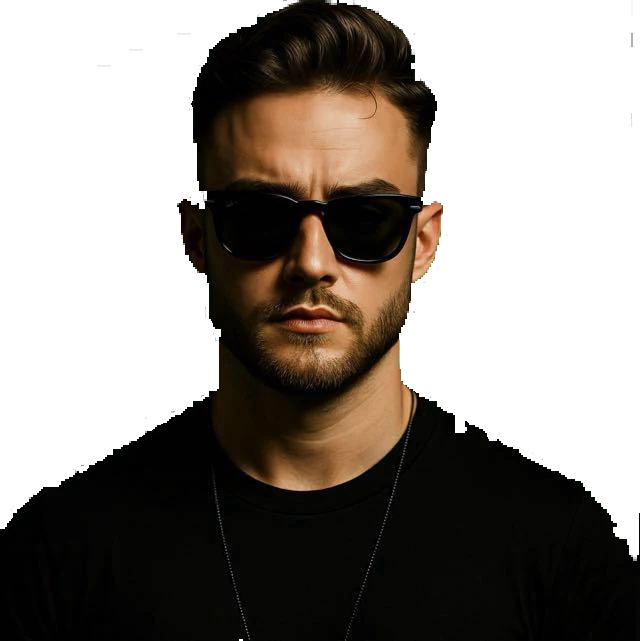
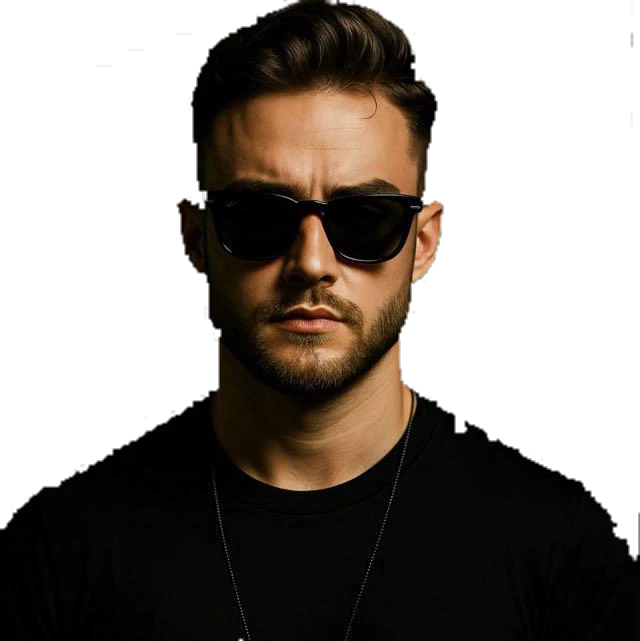
feat: finalize LR identity and refresh portfolio

diff --git a/index.html b/index.html
@@ -21,10 +21,10 @@
     >
     <meta
       property="og:image"
-      content="https://lucas-rickson-neural-violet.growthengineer.chatgpt.site/og.png"
+      content="https://lucas-rickson-neural-violet.growthengineer.chatgpt.site/og.jpg"
     >
-    <meta property="og:image:width" content="1729">
-    <meta property="og:image:height" content="910">
+    <meta property="og:image:width" content="1200">
+    <meta property="og:image:height" content="632">
     <meta
       property="og:image:alt"
       content="Lucas Rickson — O impossível ganha forma."
@@ -37,39 +37,18 @@
     >
     <meta
       name="twitter:image"
-      content="https://lucas-rickson-neural-violet.growthengineer.chatgpt.site/og.png"
+      content="https://lucas-rickson-neural-violet.growthengineer.chatgpt.site/og.jpg"
     >
     <title>Lucas Rickson — Experiências digitais em 3D</title>
     <link
       rel="canonical"
       href="https://lucas-rickson-neural-violet.growthengineer.chatgpt.site/"
     >
-    <script type="application/ld+json">
-      {
-        "@context": "https://schema.org",
-        "@type": "Person",
-        "name": "Lucas Rickson",
-        "url": "https://lucas-rickson-neural-violet.growthengineer.chatgpt.site/",
-        "sameAs": ["https://instagram.com/olucasrickson"],
-        "jobTitle": "Designer de experiências digitais",
-        "knowsAbout": [
-          "Web design",
-          "Produção de podcasts",
-          "Edição de vídeo",
-          "Motion e VFX",
-          "Tráfego pago",
-          "Inteligência artificial"
-        ],
-        "homeLocation": {
-          "@type": "Place",
-          "name": "Goiás, Brasil"
-        }
-      }
-    </script>
     <link rel="icon" href="/favicon.png" type="image/png">
 
-    <!-- Structured data: lets Google show Lucas as a person with a defined
-         set of services, and surfaces the Computer Science background.
+    <!-- Structured data — SINGLE Person entity for the whole site.
+         Two competing Person blocks would split the entity for Google, so
+         keep this as the only application/ld+json on the page.
          Update `url`/`image` together with the canonical tag above. -->
     <script type="application/ld+json">
       {
@@ -78,19 +57,22 @@
         "name": "Lucas Rickson",
         "url": "https://lucas-rickson-neural-violet.growthengineer.chatgpt.site/",
         "image": "https://lucas-rickson-neural-violet.growthengineer.chatgpt.site/assets/lucas-rickson.webp",
-        "jobTitle": "Web Designer, Produtor de Podcasts e Artista Visual",
+        "jobTitle": "Designer de experiências digitais e produtor de podcasts",
         "description": "Acadêmico de Ciência da Computação que cria sites, podcasts, vídeo, motion, VFX e campanhas de tráfego pago com apoio de inteligência artificial.",
         "knowsAbout": [
           "Ciência da Computação",
-          "Web Design",
-          "Produção de Podcast",
-          "Edição de Vídeo",
-          "Motion Design",
-          "VFX",
-          "Tráfego Pago",
+          "Web design",
+          "Produção de podcasts",
+          "Edição de vídeo",
+          "Motion e VFX",
+          "Tráfego pago",
           "Meta Ads",
-          "Inteligência Artificial Generativa"
+          "Inteligência artificial generativa"
         ],
+        "homeLocation": {
+          "@type": "Place",
+          "name": "Goiás, Brasil"
+        },
         "address": {
           "@type": "PostalAddress",
           "addressRegion": "GO",
@@ -134,7 +116,14 @@
 
     <header class="site-header" id="site-header">
       <a class="brand" href="#inicio" aria-label="Lucas Rickson — início">
-        <span class="brand__signal" aria-hidden="true"></span>
+        <img
+          class="brand__mark"
+          src="/logo-mark.png"
+          alt=""
+          width="32"
+          height="32"
+          aria-hidden="true"
+        >
         <span>Lucas Rickson</span>
       </a>
 
@@ -529,7 +518,14 @@
 
     <footer class="site-footer">
       <a class="brand" href="#inicio">
-        <span class="brand__signal" aria-hidden="true"></span>
+        <img
+          class="brand__mark"
+          src="/logo-mark.png"
+          alt=""
+          width="32"
+          height="32"
+          aria-hidden="true"
+        >
         <span>Lucas Rickson</span>
       </a>
       <p>Sites · Podcasts · Vídeo &amp; VFX · Meta Ads</p>

diff --git a/src/styles.css b/src/styles.css
@@ -220,15 +220,13 @@ body.loaded .loader {
   text-transform: uppercase;
 }
 
-.brand__signal {
-  width: 0.5rem;
-  height: 0.5rem;
-  border-radius: 50%;
-  background: var(--pink-glow);
-  box-shadow:
-    0 0 8px var(--pink-glow),
-    0 0 18px var(--magenta);
-  animation: signal-pulse 3.4s ease-in-out infinite;
+.brand__mark {
+  width: 1.75rem;
+  height: 1.75rem;
+  object-fit: contain;
+  filter:
+    drop-shadow(0 0 5px rgb(255 46 170 / 0.42))
+    drop-shadow(0 0 10px rgb(123 45 255 / 0.3));
 }
 
 .menu-toggle {

diff --git a/AGENTS.md b/AGENTS.md
@@ -6,6 +6,12 @@ Two AI agents work on this repo simultaneously. **Read this before editing; upda
 
 Personal landing page for Lucas Rickson — "Neural Violet" art direction (dark macro-surrealism, violet `#8b2fd6` / magenta `#e331b8`, rare cyan `#52e8e0` ≤5%, void `#060309`). Stack: Vite 7 + Three.js, deployed on Netlify (`netlify.toml`, build → `dist/`). UI copy in pt-BR; code/comments in English.
 
+## Repository
+
+Lucas's canonical repo (stated 2026-07-25) is **`origin`** → `https://github.com/ricksonlucasgomes-prog/lucas-rickson-lr.git` (public). Use it for all version control from now on.
+
+The `sites` remote (`git.chatgpt-team.site/.../appgprj_…`) is the Sites deploy target, not the source of truth — keep both, push code to `origin`.
+
 ## Ground rules
 
 1. **No wholesale rewrites.** Edit incrementally; the file you remember may have changed since you last read it. Re-read before writing.
@@ -22,7 +28,9 @@ Personal landing page for Lucas Rickson — "Neural Violet" art direction (dark 
 - **DONE (2026-07-25):** added the **Sinal** podcast card (`sinal.webp`) plus its `projectDetails` entry in `main.js`, the category-filter markup, and `src/works-filter.css`. Deleted my duplicate `works-filter.js` once Codex implemented `applyProjectFilter` in `main.js` — **filter behaviour is Codex's, filter styling is mine.**
 - **DONE (2026-07-25):** About-section portrait. `public/assets/lucas-rickson.webp` is a transparent cutout of Lucas's photo (green screen removed locally via chroma-ratio + border flood fill; source kept at `~/Downloads/WhatsApp Image 2026-07-25 at 12.31.11.jpeg`). It replaced `.about__spacer`; all its glow/rim light is CSS in `src/portrait.css` (mine). Keep the image transparent — never bake a background into it.
 - **DONE (2026-07-25):** copy updates for two new facts Lucas gave: he is a **podcast producer** and an **academic in Computer Science**. Both now appear in the hero eyebrow, About paragraphs, `about__facts`, services and meta description.
-- QA/validation: build checks, viewport tests (note: verified no horizontal overflow at 360/768/1440 via puppeteer; Chrome headless `--window-size` below 500px lies).
+- **DONE (2026-07-25):** SEO layer — `public/robots.txt`, `public/sitemap.xml`, and a **single** JSON-LD `Person` block in `index.html`. Codex and I each added a Person block within minutes of each other; two competing entities split the record for Google, so they are now merged into one. **Only ever one `application/ld+json` on the page** — extend the existing object instead of adding a second script.
+- **DONE (2026-07-25):** social card weight. Codex's card was a 2 MB PNG (`og.png`), above the ~1 MB threshold where WhatsApp/X silently skip the preview. Replaced by `public/og.jpg`, 1200×632, 149 KB, visually identical (the art is dark, so JPEG artefacts don't show); `og:image`, `twitter:image` and the width/height meta now point at it. The 2 MB original is archived in the session scratchpad, not in the repo.
+- QA/validation: build checks, viewport tests (note: verified no horizontal overflow at 360/768/1440 via puppeteer; Chrome headless `--window-size` below 500px lies). Mobile pass 2026-07-25: portrait, six cards, filter chips and the project dialog all verified at 360/768.
 
 ### Codex
 - Owns the Three.js scene (`src/main.js`) and stylesheet (`src/styles.css`) — Claude edits those only for agreed fixes.
@@ -33,7 +41,18 @@ Personal landing page for Lucas Rickson — "Neural Violet" art direction (dark 
 - **DONE (2026-07-25):** completed Claude's filter markup and sixth Sinal card with responsive chip styles, filtering behavior, and a balanced six-card desktop grid.
 - **DONE (2026-07-25):** removed the orphaned Pulso/Vazio placeholder selectors and the unused `pulse-ring` keyframes after Claude replaced both placeholders with real artwork.
 - **DONE (2026-07-25):** moved Three.js to a dynamic import so the interface and loader can initialize before the 3D runtime downloads.
+- **DONE (2026-07-25):** finalized the user-approved LR/Neural Violet brand kit in `brand/final/`, preserved the previous favicon in `brand/archive/`, and applied the new LR mark to the header, footer, and favicon without replacing the readable “Lucas Rickson” wordmark.
+
+## → Delegated to Codex (Lucas asked Claude to hand these over)
+
+1. **Republish the Sites deployment.** The live version still serves the build from before this round: duplicated JSON-LD, the 2 MB `og.png` (now **deleted** — a stale deploy will 404 on it), the old portrait, and no `robots.txt`/`sitemap.xml`. You own the publish step; the local build is clean and ready.
+2. **Make the deployment publicly reachable.** `https://lucas-rickson-neural-violet.growthengineer.chatgpt.site/` answers **401** to anonymous requests (owner-only). While it does, neither Google nor WhatsApp/X can fetch `og.jpg`, so link previews and indexing cannot work at all. Either open it up or tell Lucas which host should serve the public version (Netlify config still exists in `netlify.toml`).
+3. **Decide on `.openai/hosting.json`.** It is tracked and now heads to a *public* GitHub repo. It only holds a Sites `project_id` (an identifier, not a secret), but it is your infrastructure — keep it or gitignore it, your call.
 
 ## Known open items (unclaimed)
 
-- None currently. Wait for Lucas's real project materials before replacing concept cases.
+- Wait for Lucas's real project materials before replacing the concept cases.
+
+## Verified state (Claude, 2026-07-25)
+
+Local build is clean and validated: single valid JSON-LD, absolute social URLs, `robots.txt` + `sitemap.xml` present, no horizontal overflow at 360/768/1440, zero console errors, all six filter categories return the right cards, the project dialog opens, `lang=pt-BR`, one `h1`, every image has `alt`, every control has an accessible name, and all body copy sits at 6.77:1 contrast (kickers 8.72:1) — above WCAG AA. `dist/` totals 1.28 MB.

diff --git a/brand/brand-direction-v1.md b/brand/brand-direction-v1.md
@@ -49,3 +49,21 @@ Arquivos:
 
 Não substituir a assinatura atual do site até a aprovação do símbolo. O nome
 “Lucas Rickson” deve continuar legível mesmo quando o monograma for usado.
+
+## Direção aprovada e kit final
+
+A direção `lucas-rickson-logo-v2.png` foi aprovada em 25 de julho de 2026.
+O monograma LR passa a funcionar como assinatura visual ao lado do nome
+“Lucas Rickson”, sem substituir o nome principal.
+
+Arquivos finais:
+
+- `final/lr-symbol-color.png` — símbolo colorido com fundo transparente;
+- `final/lr-symbol-mono.png` — versão branca monocromática e transparente;
+- `final/lr-avatar.png` — avatar quadrado sobre fundo Neural Violet;
+- `../public/logo-mark.png` — versão otimizada usada no cabeçalho e rodapé;
+- `../public/favicon.png` — favicon oficial da marca;
+- `archive/favicon-pre-lr.png` — favicon anterior preservado.
+
+Observação: esta é uma versão raster aprovada para uso digital. Uma reconstrução
+vetorial ainda é recomendada antes de aplicações impressas em grande formato.
